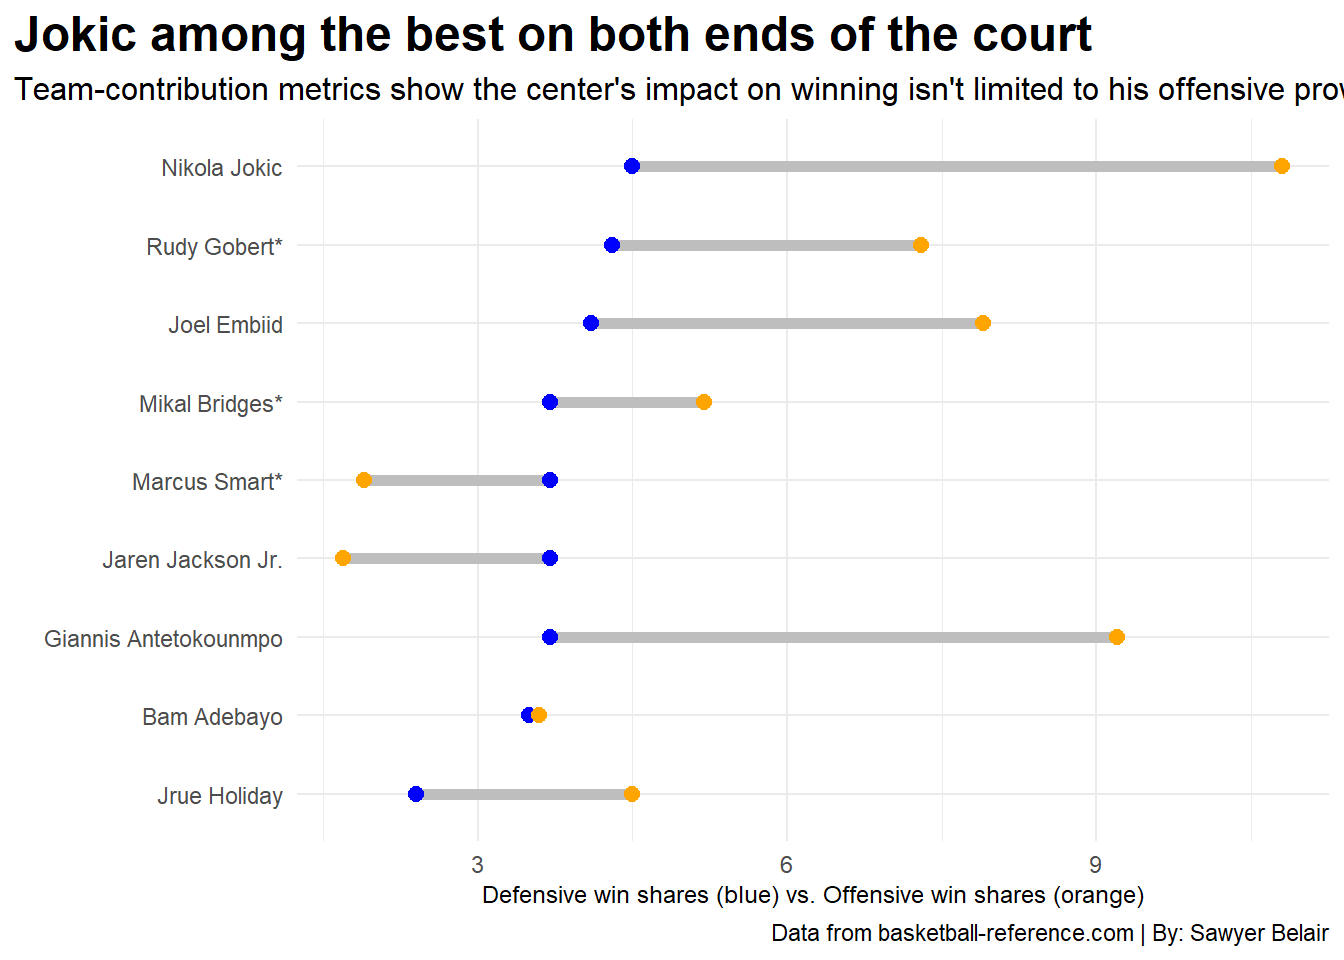
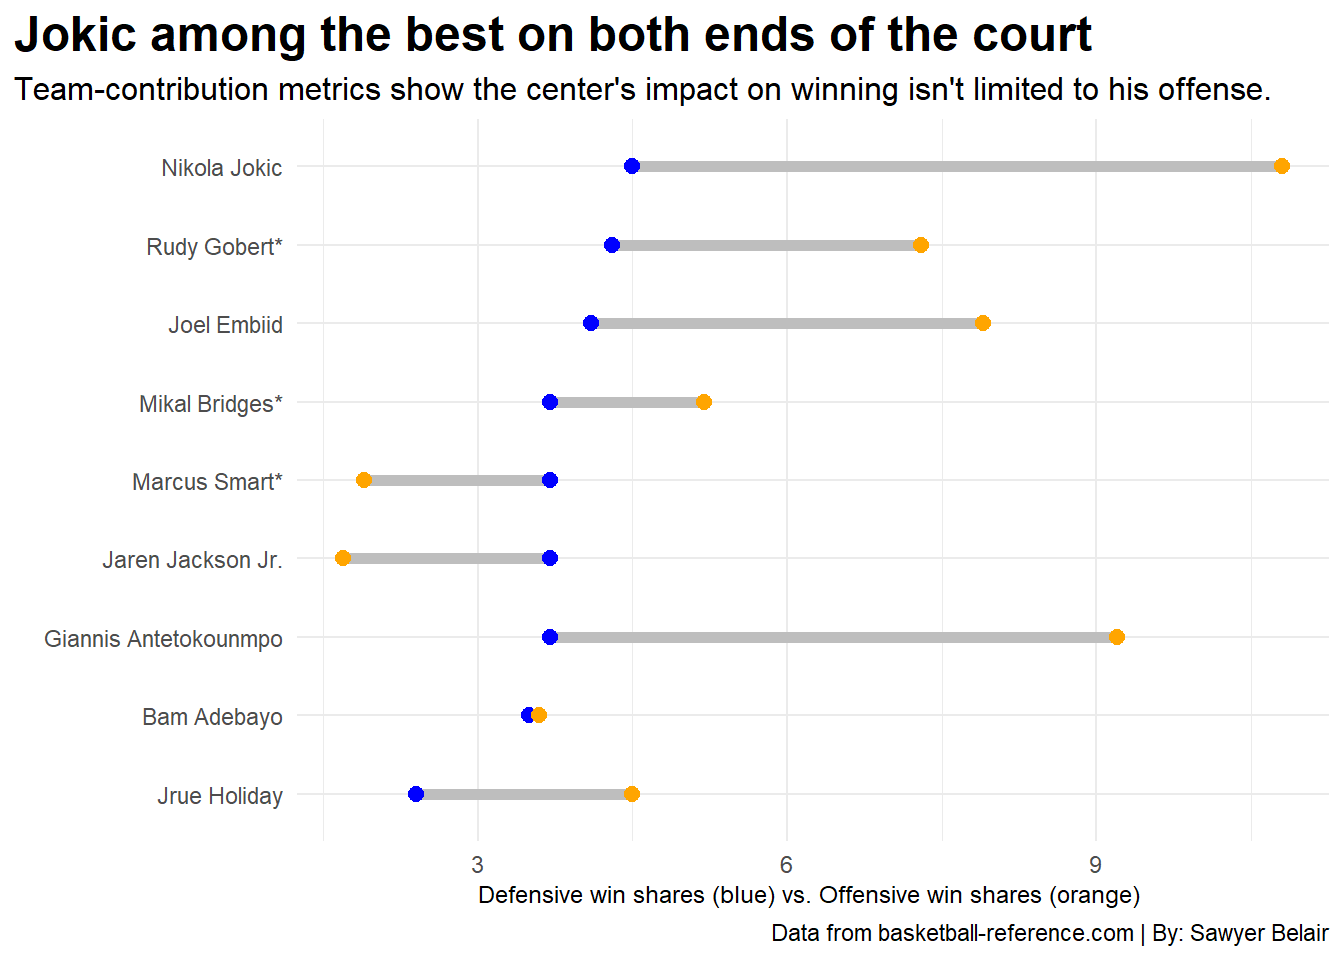
ok...

Changed region(s): [[0.3438, 0.9062, 0.8438, 0.9688], [0.9375, 0.0625, 1.0, 0.125]]

diff --git a/posts/jokic-greatest-player/index.html b/posts/jokic-greatest-player/index.html
@@ -208,9 +208,9 @@ code span.wa { color: #60a0b0; font-weight: bold; font-style: italic; } /* Warni
 
 <p>The 2021-22 NBA season showcased the pinnacle of Nikola Jokic’s basketball abilities, but some still doubt his status as the reigning greatest player in basketball.</p>
 <p>Indeed, when the conversation of “greatest on the planet” comes up, the narrative is continually dominated by Giannis Antetokounmpo, Steph Curry, Kevin Durant, and even LeBron James, who Jokic himself recently <a href="https://www.yardbarker.com/nba/articles/nikola_jokic_says_lebron_james_is_the_best_player_in_the_world_and_anthony_davis_is_the_second_most_talented_player_in_the_nba/s1_16751_38053540">graced</a> with that accolade.</p>
-<p>Perhaps it’s a matter of fan fatigue, a byproduct of playing for a relatively small-market organization, or just the simple fact that he doesn’t possess a singular, electrifying attribute like Antetekounmpo’s freakish athletic ability or Curry’s cold-blooded deep shooting. Regardless, the center from Sombor, Serbia has been fighting tooth and nail for his place at the table with the greats since he came into the league during the latter superstar’s historic 73-9 MVP campaign.</p>
+<p>Perhaps it’s a matter of fan fatigue, a byproduct of playing for a relatively small-market organization, or just the simple fact that he doesn’t possess a singular, electrifying attribute like Antetokounmpo’s freakish athletic ability or Curry’s cold-blooded deep shooting. Regardless, the center from Sombor, Serbia has been fighting tooth and nail for his place at the table with the greats since he came into the league during the latter superstar’s historic 73-9 MVP campaign.</p>
 <p>Whether or not he bores people to death with his slow, methodical pace, or fails to be taken seriously due to his <a href="https://www.slamonline.com/nba/jokic-im-patient-because-i-cannot-really-run-fast/">humorous</a>, carefree demeanor, after four straight All-Star selections and back-to-back MVP seasons, during which he’s posted some of the most jaw-dropping stats in the history of the league, it’s time we put some m*********ing respect on this man’s name.</p>
-<p>We start our journey with a overview of Jokic’s overall production. utilizing some of the more common all-in-one statistics used to calculate a player’s overall per-game impact.</p>
+<p>We start our journey with an overview of Jokic’s overall production. utilizing some of the more common all-in-one statistics used to calculate a player’s overall per-game impact.</p>
 <p>According to the “godfather of basketball analytics” and <a href="https://www.espn.com/nba/columns/story?columnist=hollinger_john&amp;id=2850240">creator</a> of the metric, John Hollinger, Player Efficiency Rating (PER) is a rating of a player’s per-minute productivity, factoring in their positive “box-score” contributions (i.e.&nbsp;baskets scored, assists, rebounds, steals, blocks) as well as negative contributions (missed shots, turnovers, fouls) to produce a number that generally ranges from 0 to 30. 15 is generally viewed as average-to-mediocre, while anything above around 23 is considered elite company.</p>
 <p>Box Plus/Minus (BPM) is another easy-to-comprehend advanced metric that takes into account box score contributions in addition to a player’s position and the team’s overall performance to estimate a player’s contribution in points above the league average per 100 possessions played. The average BPM is defined as 0.0 (an okay starter or good 6th man), while 5.0 and above is considered elite, 8.0 is MVP level and 10.0+ is all-time great.</p>
 <p>Taking both of these metrics into account, we plot every player in the league who played at or above the league-wide median of 43 games played (just over half of a full season), with the top 9 performers highlighted.</p>
@@ -370,7 +370,7 @@ code span.wa { color: #60a0b0; font-weight: bold; font-style: italic; } /* Warni
 <span id="cb3-33"><a href="#cb3-33" aria-hidden="true" tabindex="-1"></a>    <span class="fu">coord_flip</span>() <span class="sc">+</span> </span>
 <span id="cb3-34"><a href="#cb3-34" aria-hidden="true" tabindex="-1"></a>    <span class="fu">labs</span>(</span>
 <span id="cb3-35"><a href="#cb3-35" aria-hidden="true" tabindex="-1"></a>      <span class="at">title =</span> <span class="st">"A threat from anywhere on the floor"</span>,</span>
-<span id="cb3-36"><a href="#cb3-36" aria-hidden="true" tabindex="-1"></a>    <span class="at">subtitle =</span> <span class="st">"Jokic was rivaled only by the league's greatest scorer in efficiency at every distance from the basket."</span>,</span>
+<span id="cb3-36"><a href="#cb3-36" aria-hidden="true" tabindex="-1"></a>    <span class="at">subtitle =</span> <span class="st">"Jokic was nearly unrivaled in high-volume efficiency at every distance from the basket."</span>,</span>
 <span id="cb3-37"><a href="#cb3-37" aria-hidden="true" tabindex="-1"></a>      <span class="at">x=</span><span class="st">""</span>, <span class="at">y=</span><span class="st">"% of shots attempted"</span>) <span class="sc">+</span> <span class="fu">theme_minimal</span>() <span class="sc">+</span></span>
 <span id="cb3-38"><a href="#cb3-38" aria-hidden="true" tabindex="-1"></a>     <span class="fu">theme</span>(</span>
 <span id="cb3-39"><a href="#cb3-39" aria-hidden="true" tabindex="-1"></a>       <span class="at">plot.title.position =</span> <span class="st">"plot"</span>,</span>
@@ -400,7 +400,7 @@ code span.wa { color: #60a0b0; font-weight: bold; font-style: italic; } /* Warni
 <p><img src="index_files/figure-html/unnamed-chunk-3-1.png" class="img-fluid" width="672"></p>
 </div>
 </div>
-<p>One aspect that Jokic isn’t given enough credit for, but which almost certainly factored into him winning second-straight MVP award, is his effort on the defensive end. Much has been said in the past about the two-time MVP’s ineffectiveness with his back to the basket, but his defensive improvement his year has been absolutely astounding.</p>
+<p>One aspect that Jokic isn’t given enough credit for, but which almost certainly factored into him winning a second-straight MVP award, is his effort on the defensive end. Much has been said in the past about the two-time MVP’s ineffectiveness with his back to the basket, but his defensive improvement his year has been absolutely astounding.</p>
 <p>Defensive performance is notoriously difficult to quantify in basketball, with the metrics capable of doing so often difficult for the casual fan to comprehend (although Jokic excels in many of them, such as <a href="https://fivethirtyeight.com/features/nikola-jokic-bolstered-his-mvp-case-with-his-defense/">RAPTOR</a>). While it’s far from a perfect statistic, <a href="https://www.basketball-reference.com/about/ws.html">win shares</a> are a relatively easy-to-understand metric that, quite simply, calculate how many wins a player can be credited with adding to a team’s season.</p>
 <p>Listed below are the top defenders from the 2021-22 season, with the 3 finalists for Defensive Player of the Year marked with an asterisk(*).</p>
 <div class="cell">
@@ -417,9 +417,9 @@ code span.wa { color: #60a0b0; font-weight: bold; font-style: italic; } /* Warni
 <span id="cb4-9"><a href="#cb4-9" aria-hidden="true" tabindex="-1"></a>    <span class="at">colour_xend =</span> <span class="st">"orange"</span>) <span class="sc">+</span> </span>
 <span id="cb4-10"><a href="#cb4-10" aria-hidden="true" tabindex="-1"></a>  <span class="fu">labs</span>(</span>
 <span id="cb4-11"><a href="#cb4-11" aria-hidden="true" tabindex="-1"></a>    <span class="at">title =</span> <span class="st">"Jokic among the best on both ends of the court"</span>,</span>
-<span id="cb4-12"><a href="#cb4-12" aria-hidden="true" tabindex="-1"></a>    <span class="at">subtitle =</span> <span class="st">"Team-contribution metrics show the center's impact on winning isn't limited to his offensive prowess."</span>,</span>
+<span id="cb4-12"><a href="#cb4-12" aria-hidden="true" tabindex="-1"></a>    <span class="at">subtitle =</span> <span class="st">"Team-contribution metrics show the center's impact on winning isn't limited to his offense."</span>,</span>
 <span id="cb4-13"><a href="#cb4-13" aria-hidden="true" tabindex="-1"></a>    <span class="at">caption =</span> <span class="st">"Data from basketball-reference.com | By: Sawyer Belair"</span>,</span>
-<span id="cb4-14"><a href="#cb4-14" aria-hidden="true" tabindex="-1"></a>    <span class="at">x =</span> <span class="st">"Defensive win shares (blue) vs. Offensive win shares (orange)"</span>, <span class="at">y =</span> <span class="st">""</span></span>
+<span id="cb4-14"><a href="#cb4-14" aria-hidden="true" tabindex="-1"></a>    <span class="at">x =</span> <span class="st">"Defensive win shares (blue) vs. Offensive win shares (orange) "</span>, <span class="at">y =</span> <span class="st">""</span></span>
 <span id="cb4-15"><a href="#cb4-15" aria-hidden="true" tabindex="-1"></a>  ) <span class="sc">+</span></span>
 <span id="cb4-16"><a href="#cb4-16" aria-hidden="true" tabindex="-1"></a>  <span class="fu">theme_minimal</span>() <span class="sc">+</span></span>
 <span id="cb4-17"><a href="#cb4-17" aria-hidden="true" tabindex="-1"></a>  <span class="fu">theme</span>(</span>
@@ -433,9 +433,9 @@ code span.wa { color: #60a0b0; font-weight: bold; font-style: italic; } /* Warni
 <p><img src="index_files/figure-html/unnamed-chunk-4-1.png" class="img-fluid" width="672"></p>
 </div>
 </div>
-<p>Despite anchoring a 15th-ranked defense that <a href="https://www.denverpost.com/2021/12/26/nikola-jokic-nuggets-mvp-season-better/">boasted</a> an elite-level defensive rating of 103.7 with him on the floor and a league-worst 114.8 with him on the bench, in addition to a league-best 4.5 Defensive Win Shares (DWS), Jokic is rarely credited with shouldering the burden on defense, unlike his fellow MVP finalists in Embiid and Anteteokounmpo.</p>
-<p>The latter two also produce significantly on the offensive end of the floor, but one can’t help but wonder if Jokic’s own unfathomable level of offensive production (further evidenced by his league-best 10.8 Offensive Win Shares), in conjunction with his pasty, stocky frame, has served to distract from his legitimate dominance on defense.</p>
-<p>Nonetheless. the quandry of Jokic’s underrated defense is simply further evidence of a broader truth; since the moment he set foot in the league, he has been subject to dismissal on the basis of surface-level evaluations. Nonetheless, at 284 lbs and 6’11”, Nikola Jokic takes the ball down the court and runs the offense like a point guard. Despite being a slow, lumbering giant, he’s able to score over anyone, anytime, anywhere on the floor. While a carefree jokester at heart with a knack for unconventional thinking, he’s also a tough-as-nails bruiser, battling night in and night out for the simple love of the game.</p>
+<p>Despite anchoring a 15th-ranked defense that <a href="https://www.denverpost.com/2021/12/26/nikola-jokic-nuggets-mvp-season-better/">boasted</a> an elite-level defensive rating of 103.7 with him on the floor and a league-worst 114.8 with him on the bench, in addition to tallying a league-best 4.5 Defensive Win Shares (DWS), Jokic is rarely credited with shouldering the burden on defense, unlike his fellow MVP finalists in Embiid and Antetokounmpo.</p>
+<p>The latter two also produced significantly on the offensive end of the floor, but one can’t help but wonder if Jokic’s own unfathomable level of offensive production (further evidenced by his league-best 10.8 Offensive Win Shares), in conjunction with his pasty complexion and stocky frame, has served to distract from his legitimate dominance on defense.</p>
+<p>Nonetheless, the quandary of Jokic’s underrated defense is simply further evidence of a broader truth; since the moment he set foot in the league, he has been subject to dismissal on the basis of surface-level evaluations. Nonetheless, at 284 lbs and 6’11”, Nikola Jokic takes the ball down the court and runs the offense like a point guard. Despite being a slow, lumbering giant, he’s able to score over anyone, anytime, anywhere on the floor. While a carefree jokester at heart with a knack for unconventional thinking, he’s also a tough-as-nails bruiser, battling night in and night out for the simple love of the game.</p>
 <p>Jokic is a man who thrives on being underestimated, and making people pay for doing so.</p>
 <p>And so, the bottom line: dismiss the greatness of Nikola Jokic at your own peril. He’ll just keep proving you wrong anyway.</p>
 

diff --git a/index.html b/index.html
@@ -164,7 +164,7 @@ ul.task-list li input[type="checkbox"] {
 
 <div class="quarto-listing quarto-listing-container-default" id="listing-listing">
 <div class="list quarto-listing-default">
-<div class="quarto-post image-right" data-index="0" data-categories="basketball,nba,analysis" data-listing-date-sort="1667538000000" data-listing-file-modified-sort="1667680825253" data-listing-reading-time-sort="12.915">
+<div class="quarto-post image-right" data-index="0" data-categories="basketball,nba,analysis" data-listing-date-sort="1667538000000" data-listing-file-modified-sort="1667957502816" data-listing-reading-time-sort="12.915">
 <div class="thumbnail">
 <p><a href="./posts/jokic-greatest-player/index.html"> <img src="./posts/jokic-greatest-player/image.png" class="thumnail-image"> </a></p>
 </div>
